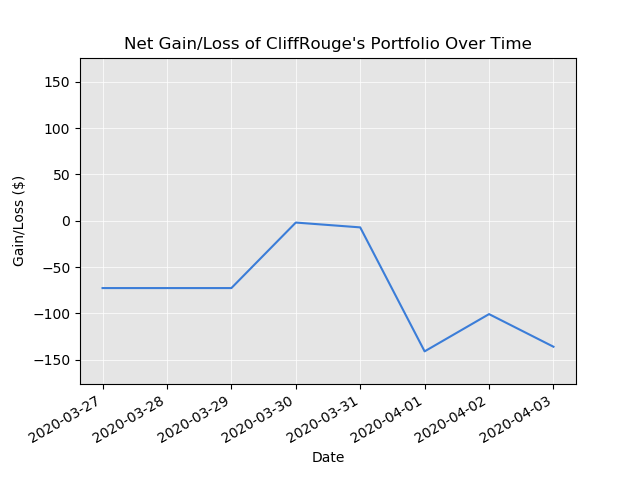
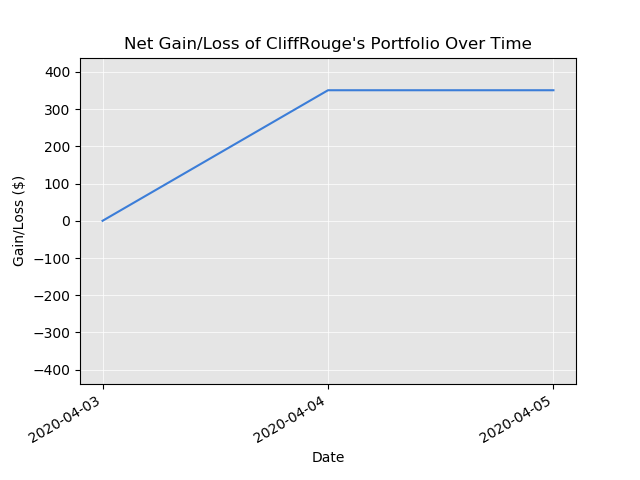
Fixed bug where portfolio history graph was not working on weekends

diff --git a/trading.py b/trading.py
@@ -254,21 +254,27 @@ def portfolio_history(user, start, inc):
     cursor = db.cursor()
     cursor.execute('SELECT * FROM stock_ledger WHERE user_id = ?', (user.id,))
     ledger_data = cursor.fetchall()
-    print(ledger_data)
     if (ledger_data == None):
-        print("User has no portfolio!")
-        return
+        return "User has no portfolio!"
     if (start == "begin"):
         start = datetime.datetime.strptime(ledger_data[0][8], '%Y-%m-%d %H:%M:%S').date()
     stock_history = []
-    histories =[ ]
+    histories = []
     end = datetime.date.today()
+    if (end.weekday() >= 5):
+        end -= datetime.timedelta(days= end.weekday() - 4)
+    if (start.weekday() >= 5):
+        start -= datetime.timedelta(days= start.weekday() - 4)
     # Produce a dictionary that holds all historical stock data
     for row in ledger_data:
-        stock = row[4][1 : -1]
+        stock = row[4][1:-1]
         if (stock not in stock_history):
             start_date = start.strftime("%Y-%m-%d")
             end_date = end.strftime("%Y-%m-%d")
+            print(stock)
+            print(start_date)
+            print(end_date)
+            print(inc)
             yf_stock_data = yf.download(stock, start=start_date, end=end_date, interval=inc)
             stock_history.append(stock)
             histories.append(yf_stock_data)
@@ -280,7 +286,7 @@ def portfolio_history(user, start, inc):
     dates = []
     values = []
     cur_date = start
-    # Loop through dates, calculting value of portfolio at any given date (upto the end date)
+    # Loop through dates, calculting value of portfolio at any given date (upto but not including the end date)
     while (cur_date < end):
         if (i <= max_i):
             while (datetime.datetime.strptime(ledger_data[i][8], '%Y-%m-%d %H:%M:%S').date() <= cur_date):
@@ -316,6 +322,7 @@ def portfolio_history(user, start, inc):
     df = pd.DataFrame()
     df["Date"] = dates
     df["Value"] = values
+    print(df)
     df_abs = df[["Value"]].applymap(lambda x: abs(x))
     m = df_abs["Value"].max()
 
@@ -334,16 +341,11 @@ def portfolio_history(user, start, inc):
     plt.title(f"Net Gain/Loss of {user.name}\'s Portfolio Over Time")
     plt.savefig('Graphs/graph.png')
     plt.close(fig=None)
-
+    return "Graph made"
 
 
 
 
     
     
-    
-
-
-
-
 

diff --git a/bot.py b/bot.py
@@ -291,10 +291,11 @@ async def order_history(ctx):
 # $portfolio_history
 @client.command()
 async def portfolio_history(ctx):
-    trading.portfolio_history(ctx.message.author, "begin", 1)
-    await ctx.send(file=discord.File('Graphs/graph.png'))
-
-
+    msg = trading.portfolio_history(ctx.message.author, "begin", 1)
+    if (msg == "Graph made"):
+        await ctx.send(file=discord.File('Graphs/graph.png'))
+    else:
+        ctx.send(msg)
 
 
 
